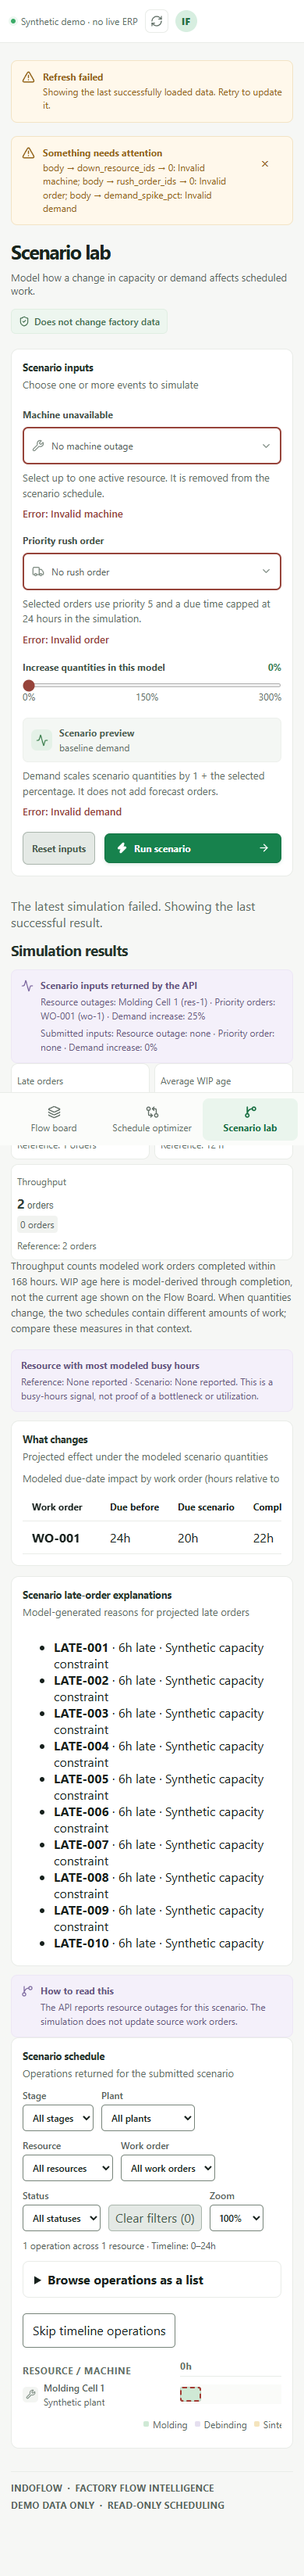
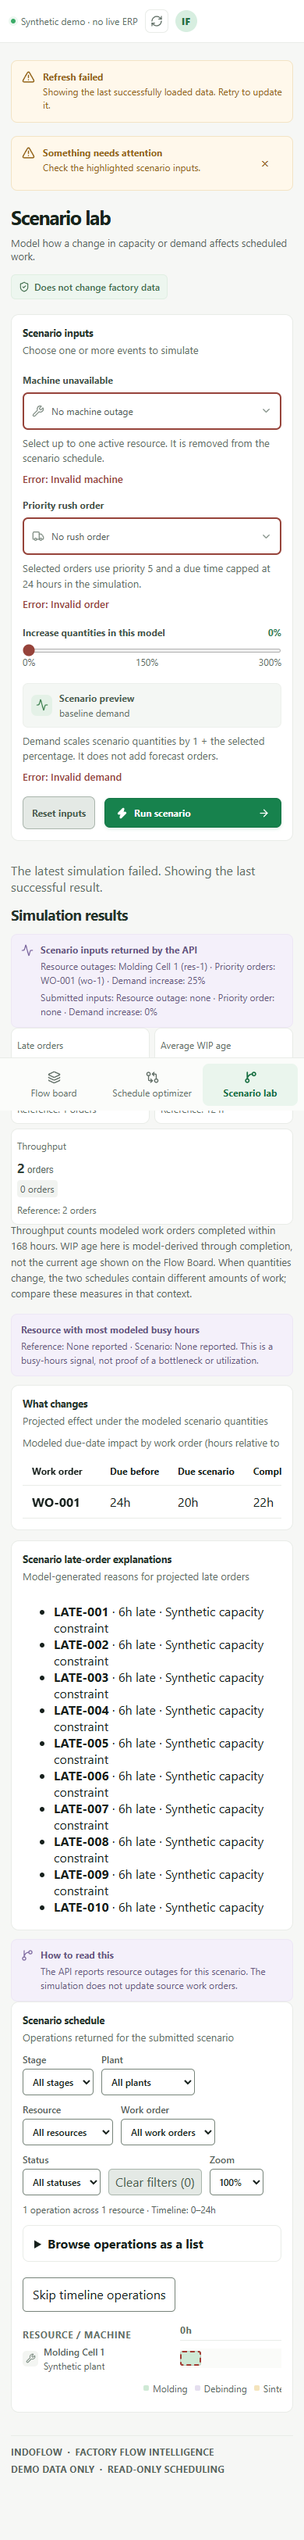
Clarify scenario validation summary

diff --git a/frontend/src/App.test.tsx b/frontend/src/App.test.tsx
@@ -704,7 +704,9 @@ describe('frontend data states', () => {
     const slider = screen.getByRole('slider', { name: 'Increase quantities in this model' })
     await waitFor(() => expect(slider).toHaveAttribute('aria-invalid', 'true'))
     expect(slider).toHaveAccessibleDescription(/Invalid demand/)
-    expect(screen.getByRole('alert')).toHaveTextContent('Other problem')
+    const alert = screen.getByRole('alert')
+    expect(alert).toHaveTextContent('Check the highlighted scenario inputs. Other problem')
+    expect(alert).not.toHaveTextContent(/Invalid demand|Invalid machine|Invalid order|body|other →/)
     const machine = screen.getByRole('combobox', { name: 'Machine unavailable' })
     const rush = screen.getByRole('combobox', { name: 'Priority rush order' })
     expect(machine).toHaveAccessibleDescription(/Invalid machine/)
@@ -748,9 +750,39 @@ describe('frontend data states', () => {
         { status: 422 },
       ),
     )
-    await screen.findByRole('alert')
+    expect(await screen.findByRole('alert')).toHaveTextContent('Invalid demand')
+    expect(screen.getByRole('alert')).not.toHaveTextContent('demand_spike_pct')
     expect(slider).toHaveAttribute('aria-invalid', 'false')
     expect(slider).not.toHaveAccessibleDescription(/Invalid demand/)
+  })
+
+  it('summarizes mapped validation errors without repeating inline messages', async () => {
+    vi.stubGlobal(
+      'fetch',
+      vi.fn(async (input: RequestInfo | URL) => {
+        const path = String(input)
+        if (path.endsWith('/api/schedule/simulate')) {
+          return Response.json(
+            { detail: [{ loc: ['body', 'demand_spike_pct'], msg: 'Invalid demand' }] },
+            { status: 422 },
+          )
+        }
+        return Response.json(
+          path.endsWith('/api/catalog') ? makeCatalog() : { ...emptyBoard, total_wip_orders: 1 },
+        )
+      }),
+    )
+    render(<App />)
+    await screen.findByRole('heading', { name: 'Production flow overview' })
+    fireEvent.click(screen.getAllByRole('button', { name: /scenario lab/i })[0])
+    fireEvent.click(screen.getByRole('button', { name: /run scenario/i }))
+    expect(await screen.findByRole('alert')).toHaveTextContent(
+      'Check the highlighted scenario inputs.',
+    )
+    expect(screen.getByRole('alert')).not.toHaveTextContent(/Invalid demand|demand_spike_pct|body/)
+    expect(
+      screen.getByRole('slider', { name: 'Increase quantities in this model' }),
+    ).toHaveAccessibleDescription(/Invalid demand/)
   })
 
   it('distinguishes returned scenario inputs from the submitted request', async () => {

diff --git a/frontend/src/App.tsx b/frontend/src/App.tsx
@@ -316,21 +316,49 @@ function App() {
       setScenarioFailed(true)
       if (e instanceof ApiError && Array.isArray(e.detail)) {
         const errors: Record<string, string> = {}
+        const otherMessages: string[] = []
         for (const entry of e.detail) {
-          if (!entry || typeof entry !== 'object' || !Array.isArray(entry.loc)) continue
-          const field = entry.loc.find((part: unknown) =>
-            ['down_resource_ids', 'rush_order_ids', 'demand_spike_pct'].includes(String(part)),
-          )
+          if (typeof entry === 'string') {
+            otherMessages.push(entry)
+            continue
+          }
+          if (!entry || typeof entry !== 'object') {
+            otherMessages.push(String(entry))
+            continue
+          }
+          const field =
+            Array.isArray(entry.loc) &&
+            entry.loc.find((part: unknown) =>
+              ['down_resource_ids', 'rush_order_ids', 'demand_spike_pct'].includes(String(part)),
+            )
+          const message =
+            typeof entry.msg === 'string'
+              ? entry.msg
+              : typeof entry.message === 'string'
+                ? entry.message
+                : 'Invalid value'
           if (
             field &&
-            typeof entry.msg === 'string' &&
             scenarioFieldRevisions.current[String(field)] === submittedRevisions[String(field)]
-          )
-            errors[String(field)] = entry.msg
+          ) {
+            const key = String(field)
+            errors[key] = errors[key] ? `${errors[key]}; ${message}` : message
+          } else {
+            otherMessages.push(message)
+          }
         }
         setFieldErrors(errors)
+        setError(
+          [
+            Object.keys(errors).length ? 'Check the highlighted scenario inputs.' : '',
+            ...otherMessages,
+          ]
+            .filter(Boolean)
+            .join(' ') || 'Scenario validation failed.',
+        )
+      } else {
+        setError(e instanceof Error ? e.message : 'Scenario simulation failed.')
       }
-      setError(e instanceof Error ? e.message : 'Scenario simulation failed.')
     } finally {
       scheduleRequestInFlight.current = false
       setBusy(null)

diff --git a/frontend/scripts/contrast_states.py b/frontend/scripts/contrast_states.py
@@ -188,6 +188,9 @@ with sync_playwright() as p:
     failures += check('Stale scenario result', page.get_by_text('The latest simulation failed. Showing the last successful result.'))
     fail_path = 'validation'
     page.get_by_role('button', name='Run scenario').click()
+    validation_alert = page.get_by_role('alert')
+    expect(validation_alert).to_contain_text('Check the highlighted scenario inputs.')
+    expect(validation_alert).not_to_contain_text('down_resource_ids')
     for control_name in ('Machine unavailable', 'Priority rush order', 'Increase quantities in this model'):
         control = page.get_by_label(control_name, exact=True)
         expect(control).to_have_attribute('aria-invalid', 'true')

diff --git a/frontend/docs/FRONTEND_IMPLEMENTATION_HANDOFF.md b/frontend/docs/FRONTEND_IMPLEMENTATION_HANDOFF.md
@@ -2,6 +2,8 @@
 
 ## Current state
 
+- Scenario validation alerts summarize errors shown beside fields and keep other API messages without exposing field paths. Tests cover mapped, unmapped and late responses. The synthetic 390 px Edge validation flow passed and the updated screenshot was visually reviewed. All 71 frontend tests, build and lint passed; lint retains the existing Gantt effect warning.
+
 - Scenario API validation errors now have visible field messages and error borders, with the existing focus treatment retained. Synthetic Edge checks at 1280 x 800 and 390 x 844 verified invalid controls, text contrast and clearing errors after edits; the mobile screenshot is `screenshots/scenario-validation-errors.png`. All 70 frontend tests, build and lint passed; lint retains the existing Gantt effect warning. This is not a full accessibility audit.
 
 - The flow board and Gantt now share the five-stage MIM configuration in `src/stages.ts`, including the optional CNC label. Stage colors and the route note still assume the current five-stage contract; changing the contract needs a coordinated UI and backend review. All 70 tests, build, lint and the synthetic Edge walkthrough passed; lint retains the existing Gantt effect warning.
